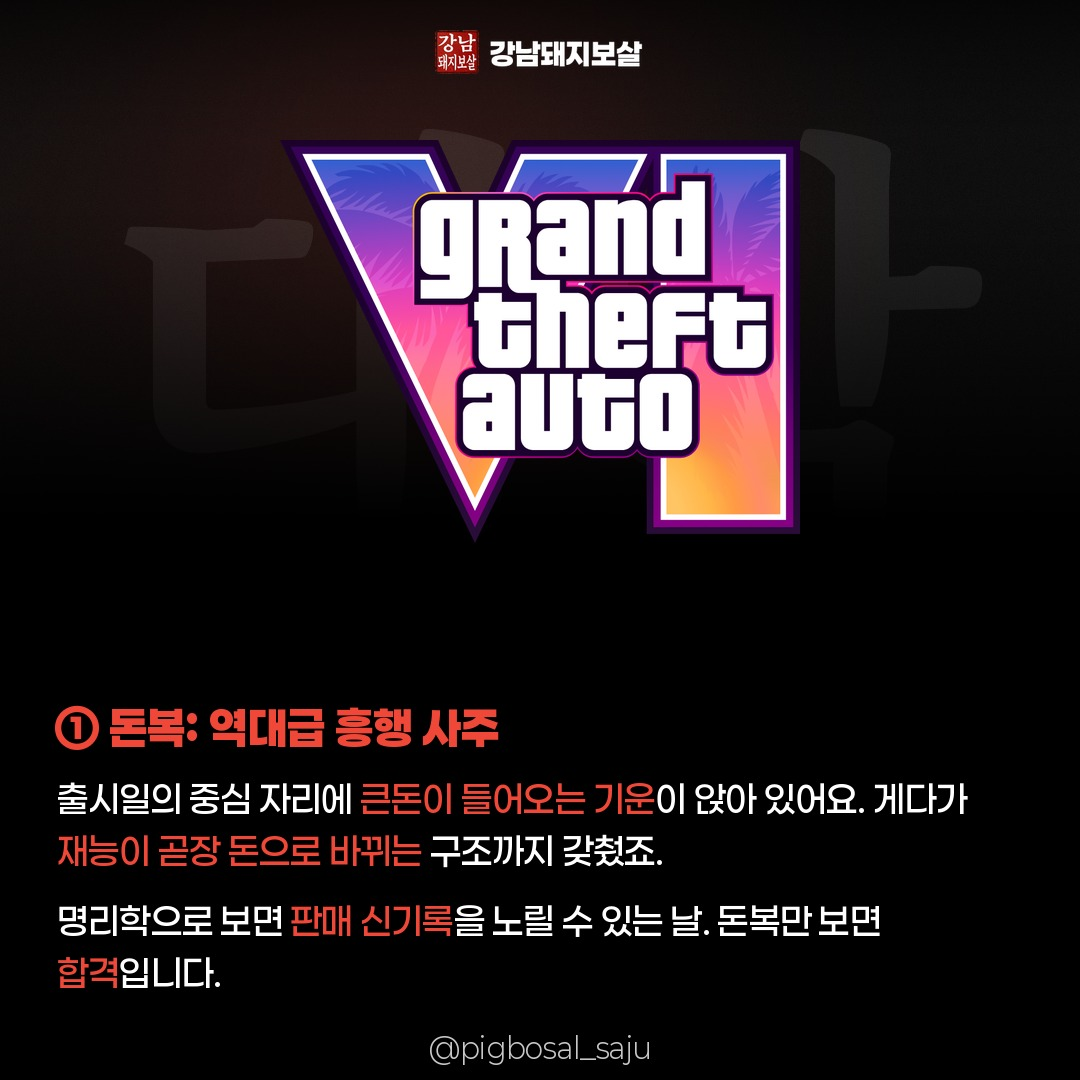
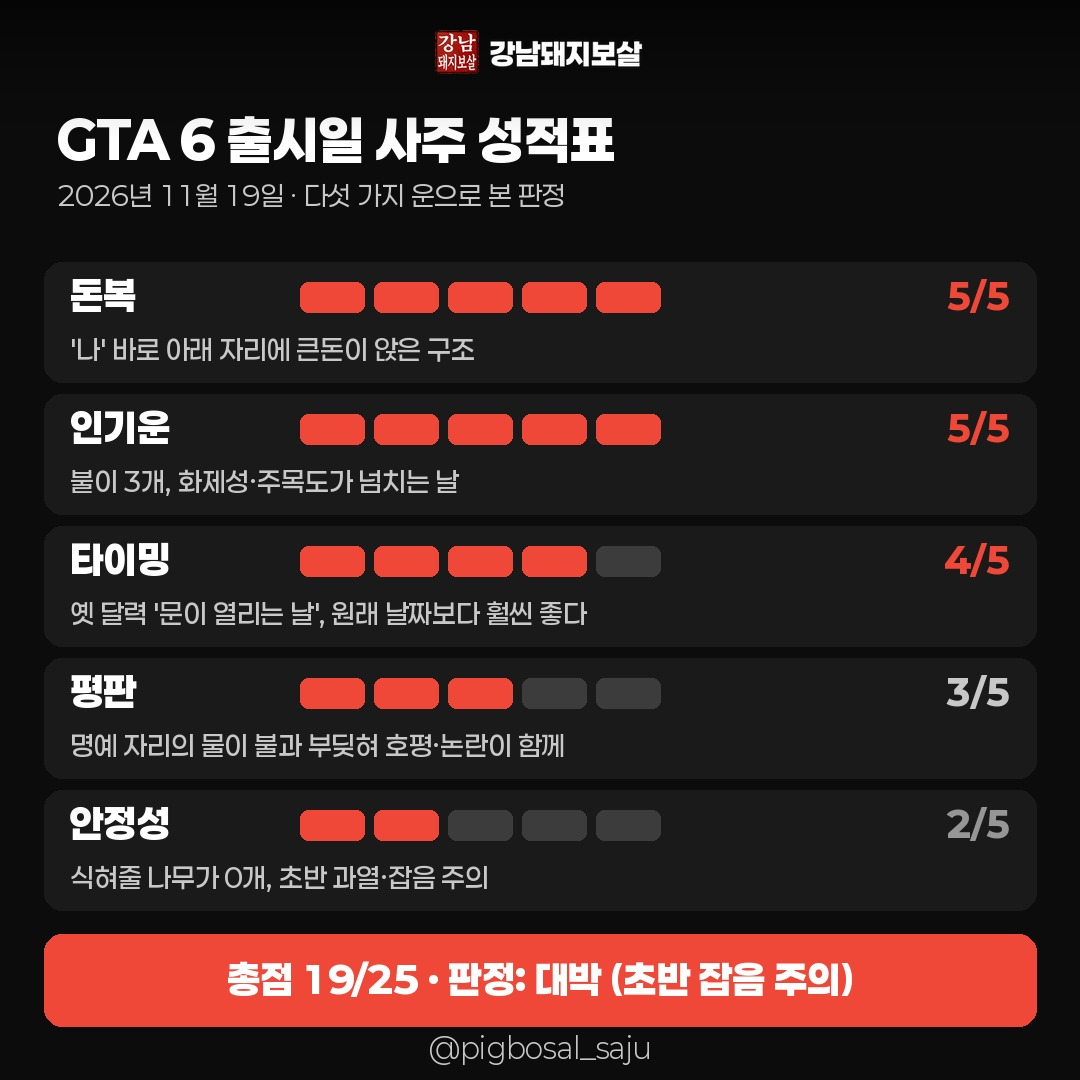
GTA 6 편: 사주 성적표 장 추가, 풀이 근거 보강, 수능 제거
Claude-Session: https://claude.ai/code/session_01R39AKJLY1tLsuohGnm6TD8

diff --git a/cardgen/render_cards.py b/cardgen/render_cards.py
@@ -360,6 +360,33 @@ def slide_closing(s, c, idx):
     return im
 
 
+def slide_score(s, c, idx):
+    """사주 성적표: 항목별 5칸 막대 + 한 줄 근거 + 최종 판정"""
+    im = Image.new('RGBA', (W, H), (12, 12, 12, 255))
+    d = ImageDraw.Draw(im)
+    d.text((57, 160), s['title'], font=F('9Black', 52), fill=WHITE, anchor='ls')
+    if s.get('sub'):
+        d.text((57, 206), s['sub'], font=F('4Regular', 27), fill=GRAY, anchor='ls')
+    y = 270
+    total = 0
+    for it in s['items']:
+        sc = it['score']; total += sc
+        d.rounded_rectangle((44, y - 8, W - 44, y + 112), 18, fill=(26, 26, 26))
+        d.text((70, y + 40), it['label'], font=F('9Black', 38), fill=WHITE, anchor='ls')
+        for k in range(5):  # 5칸 막대
+            x0 = 300 + k * 74
+            d.rounded_rectangle((x0, y + 12, x0 + 64, y + 42), 8, fill=RED if k < sc else (60, 60, 60))
+        d.text((W - 70, y + 40), f"{sc}/5", font=F('9Black', 36), fill=RED if sc >= 4 else (GRAY if sc == 3 else (150, 150, 150)), anchor='rs')
+        d.text((70, y + 90), it['why'], font=F('5Medium', 27), fill=GRAY, anchor='ls')
+        y += 132
+    n = len(s['items'])
+    d.rounded_rectangle((44, y + 4, W - 44, y + 96), 18, fill=RED)
+    d.text((W / 2, y + 64), s['verdict'].replace('{total}', str(total)).replace('{max}', str(n * 5)),
+           font=F('9Black', 38), fill=WHITE, anchor='ms')
+    handle(d)
+    return im
+
+
 def slide_outro(s, c, idx):
     return Image.open(os.path.join(ASSET, 'outro.png')).convert('RGBA')
 
@@ -369,7 +396,7 @@ def main(cfg_path, outdir, fmt='jpg'):
     base = os.path.dirname(os.path.abspath(cfg_path))
     os.makedirs(outdir, exist_ok=True)
     fn = {'cover': lambda s, c, i: slide_cover(s, c), 'body': slide_body, 'chart': slide_chart,
-          'daeun': slide_daeun, 'closing': slide_closing, 'outro': slide_outro}
+          'daeun': slide_daeun, 'score': slide_score, 'closing': slide_closing, 'outro': slide_outro}
     paths = []
     for i, s in enumerate(cfg['slides'], 1):
         if s.get('photo') and not os.path.isabs(s['photo']):

diff --git a/docs/DAILY_PLAYBOOK.md b/docs/DAILY_PLAYBOOK.md
@@ -56,6 +56,8 @@
 - **표지 = 단정형 후킹.** "OOO가 OO한 이유, 사주에 있었다" / "이 사주라서 OO했다"처럼 원인-결과를 한 줄로.
 - **소제목 = 주장.** "① 원래 날짜는 '가게 문 열면 안 되는 날'"처럼 읽기만 해도 내용이 보이게.
 - **실제로 일어난 일에만 사주를 연결한다.** 없는 사건을 예언하거나 범죄·질병을 단정하지 않는다.
+- **명식 장 바로 뒤에 성적표(type: score) 장을 넣는다.** 5개 항목(예: 돈복·인기운·타이밍·평판·안정성 / 사람은 재물운·연애운·명예운·건강 대신 '체력'은 쓰지 말고 인복 등), 1~5점, 한 줄 근거(어떤 자리에 무엇이 있어서인지 쉬운 말로), 총점과 판정.
+- 본문 풀이 장은 '왜 그런지'를 사주 자리로 설명한다(예: "'나' 바로 아래 결과 자리에 큰돈"). 근거 없는 형용사만 나열하지 않는다.
 - 배경 큰 글자(bg_hanja)에는 한자 대신 핵심 한글 키워드(예: '대박', '위험', '수능').
 
 ## 4. 렌더·전달
